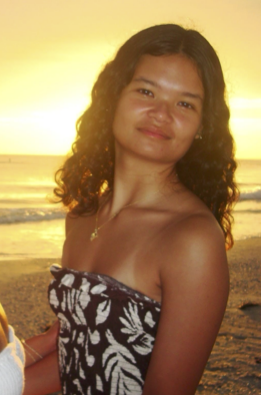
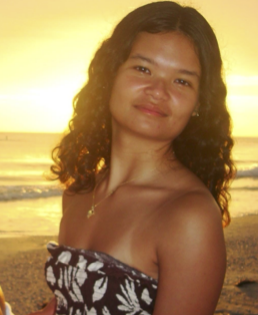
fixed photos

diff --git a/src/components/team/team-data.ts b/src/components/team/team-data.ts
@@ -52,7 +52,7 @@ export const TEAM_SECTIONS: TeamSection[] = [
     title: "Electrical Leads",
     accent: "yellow",
     members: [
-      { name: "Krish Patel", role: "Electrical Lead", photo: "/team/photos/electrical lead.png", funFact: "I have used a CNC machine." },
+      { name: "Krish Patel", role: "Electrical Lead", photo: "/team/photos/e lead.png", funFact: "I have used a CNC machine." },
       { name: "Andy Heath", role: "Electrical Lead", photo:"/team/photos/electrical leads 2.png", funFact: "I’m a twin." },
       { name: "Praneeth Damarla", role: "Electrical Lead", photo: "/team/photos/electrical leads3.png", funFact: "I collect Pokemon cards." },
     ],
@@ -63,8 +63,8 @@ export const TEAM_SECTIONS: TeamSection[] = [
     accent: "purple",
     members: [
       { name: "Deepti Rao", role: "Software Lead", photo: "/team/photos/software l1.png", funFact: "I cannot swim but I can doggy paddle." },
-      { name: "Shoubhit Mukherjee", role: "Software Lead", photo: "/team/photos/software l2.png", funFact: "I 3D printed the custom chair stand in that image because I hated the noise the dorm chairs make when you lean back on them." },
-      { name: "Srinithin Ganesh", role: "Software Lead", photo: "/team/photos/software 3.png", funFact: "I’m left handed." },
+      { name: "Shoubhit Mukherjee", role: "Software Lead", photo: "/team/photos/softwarel2.png", funFact: "I 3D printed the custom chair stand in that image because I hated the noise the dorm chairs make when you lean back on them." },
+      { name: "Srinithin Ganesh", role: "Software Lead", photo: "/team/photos/s3.png", funFact: "I’m left handed." },
     ],
   },
   {
@@ -72,7 +72,7 @@ export const TEAM_SECTIONS: TeamSection[] = [
     title: "Business Leads",
     accent: "pink",
     members: [
-      { name: "Shalini Patel", role: "Business Lead", photo: "/team/photos/b1.png", funFact: "I have been on 14 Disney Cruises :)" },
+      { name: "Shalini Patel", role: "Business Lead", photo: "/team/photos/bus1.png", funFact: "I have been on 14 Disney Cruises :)" },
       { name: "Hannah Breunig", role: "Business Lead + Social Media", photo: "/team/photos/b2.png", funFact: "I have been to Bucee’s 6 times." },
       { name: "Ananya Jaising", role: "Business Lead", photo: "/team/photos/b3.png", funFact: "I studied abroad in London last semester." },
       { name: "Praneeta Kondragunta", role: "EGC Representative", photo: "/team/photos/b4.png", funFact: "I teach pilates at the Rutgers Rec!." },
